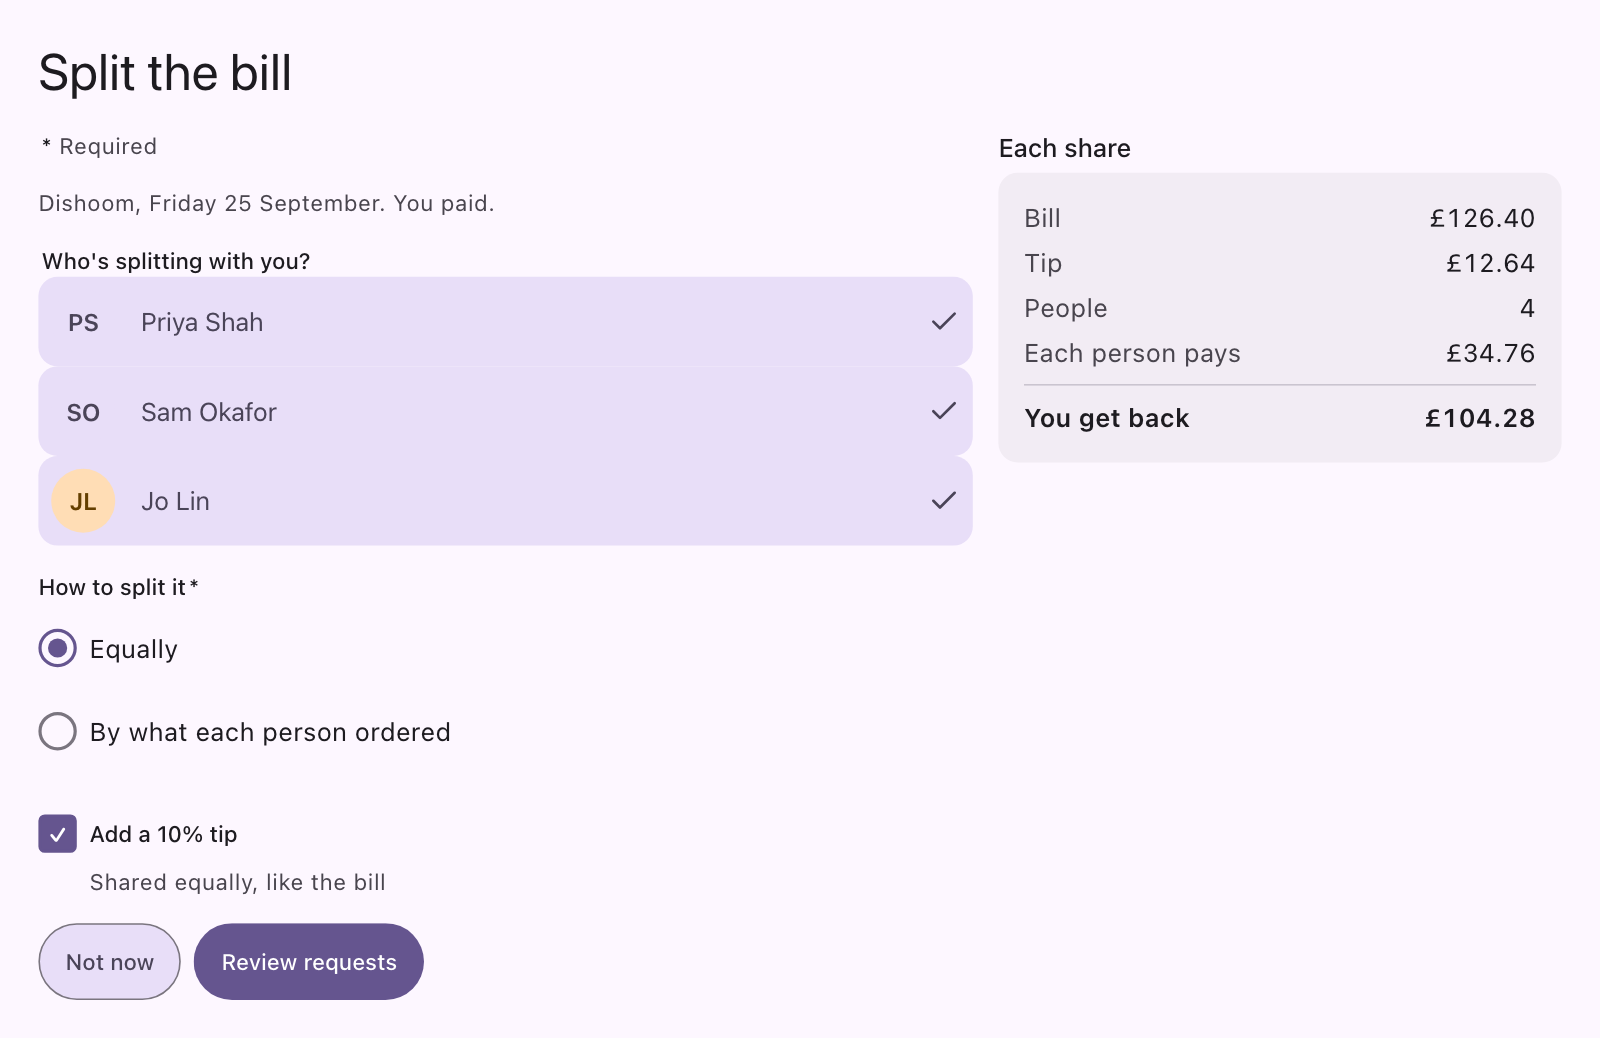
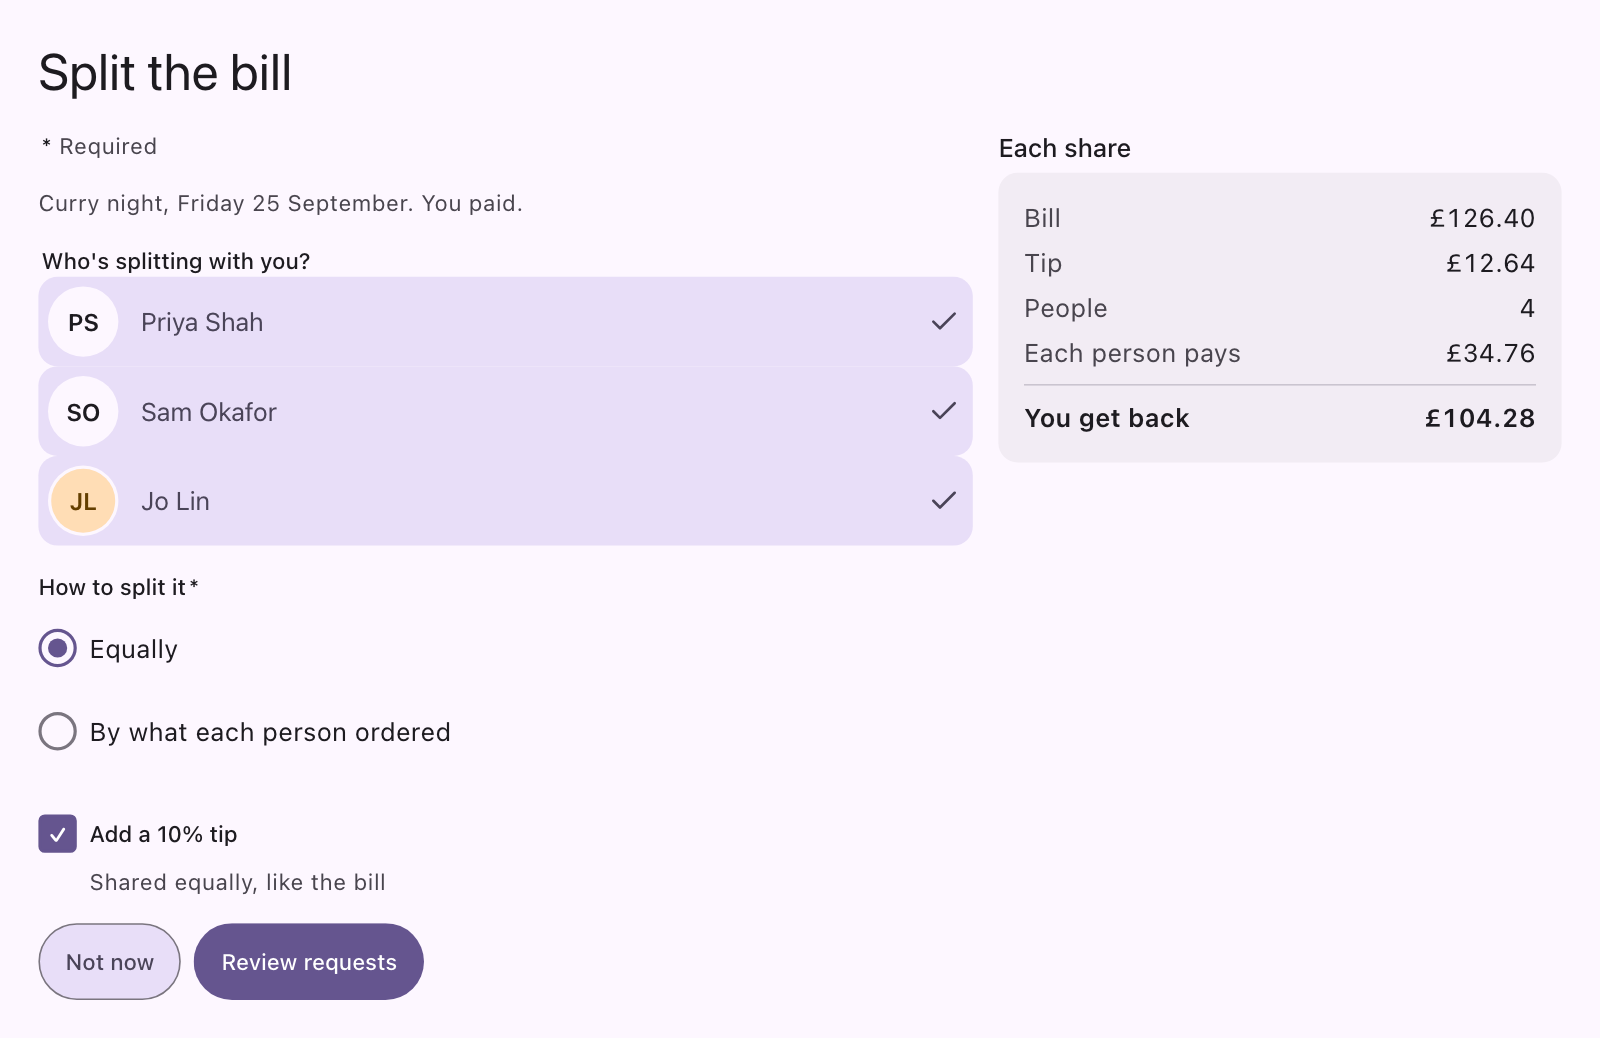
Renderer: faces stay visible on a selected person row; listing screenshot names no real restaurant

Changed region(s): [[0.0312, 0.2775, 0.0938, 0.4316], [0.0312, 0.185, 0.3125, 0.2158]]

diff --git a/packages/react/src/styles.css b/packages/react/src/styles.css
@@ -1281,6 +1281,18 @@ textarea.pxd-input {
 .pxd-person-row[data-state="checked"] .pxd-option-description {
   color: inherit;
 }
+/* On a selected row the avatar's own tone can match the selection colour, so the face would vanish
+   into the row. Tones built from the selection or neutral surfaces move to the plain surface, and
+   every face gets a surface ring to keep its edge. */
+.pxd-person-row[data-state="checked"] .pxd-avatar {
+  box-shadow: 0 0 0 var(--pxd-border-width-strong) var(--pxd-color-surface-default);
+}
+.pxd-person-row[data-state="checked"] .pxd-avatar-primary,
+.pxd-person-row[data-state="checked"] .pxd-avatar-secondary,
+.pxd-person-row[data-state="checked"] .pxd-avatar-tertiary {
+  background: var(--pxd-color-surface-default);
+  color: var(--pxd-color-text-default);
+}
 .pxd-person-text {
   flex: 1;
   display: flex;

diff --git a/packages/mcp/listing/SUBMISSION.md b/packages/mcp/listing/SUBMISSION.md
@@ -253,7 +253,7 @@ headless Chromium, after the document passed `@polyxd/spec`'s validator, `polyxd
 
 | # | Screenshot | Paired prompt | Pack, mode |
 |---|---|---|---|
-| 1 | `screenshots/1-split-dinner-material3.png` | Split Friday's dinner at Dishoom with Priya, Sam and Jo. The bill was £126.40 and I'd like to add a 10% tip. Show it in Material 3. | Material 3, light |
+| 1 | `screenshots/1-split-dinner-material3.png` | Split Friday's dinner with Priya, Sam and Jo. The bill was £126.40 and I'd like to add a 10% tip. Show it in Material 3. | Material 3, light |
 | 2 | `screenshots/2-return-shoes-carbon.png` | I need to return the running shoes from order #4821, they're too small. Use Carbon. | IBM Carbon, light |
 | 3 | `screenshots/3-change-address-govuk.png` | Help me tell the council I've moved house. Make it a GOV.UK form. | GOV.UK, light |
 | 4 | `screenshots/4-support-dashboard-dark.png` | Here's this week's helpdesk export. Show my support team's week as a dashboard, in dark mode. | shadcn/ui, dark |
@@ -285,7 +285,7 @@ for the first four cases are in `screenshots/documents/`, valid and verified.
 
 **P1. Split a bill in Material 3**
 
-- Prompt: "Split Friday's dinner at Dishoom with Priya, Sam and Jo. The bill was £126.40 and I'd like to add a 10% tip. Show it in Material 3."
+- Prompt: "Split Friday's dinner with Priya, Sam and Jo. The bill was £126.40 and I'd like to add a 10% tip. Show it in Material 3."
 - Expected tools: `polyxd_guide` (first use in the conversation), `polyxd_validate` until valid, then `polyxd_show` with `pack: "material3"`.
 - Expected result: `polyxd_show` returns `structuredContent.shown: true`, `pack: "material3"`. The screen is a form with the three friends chosen, "Equally" selected, a 10% tip toggle, and a receipt: bill £126.40, tip £12.64, each person pays £34.76, you get back £104.28. Buttons "Not now" and "Review requests". Pressing "Review requests" sends a chat message naming `split.review` with the chosen people. No money moves.
 - Fixture: `screenshots/documents/1-split-dinner-material3.json`.
